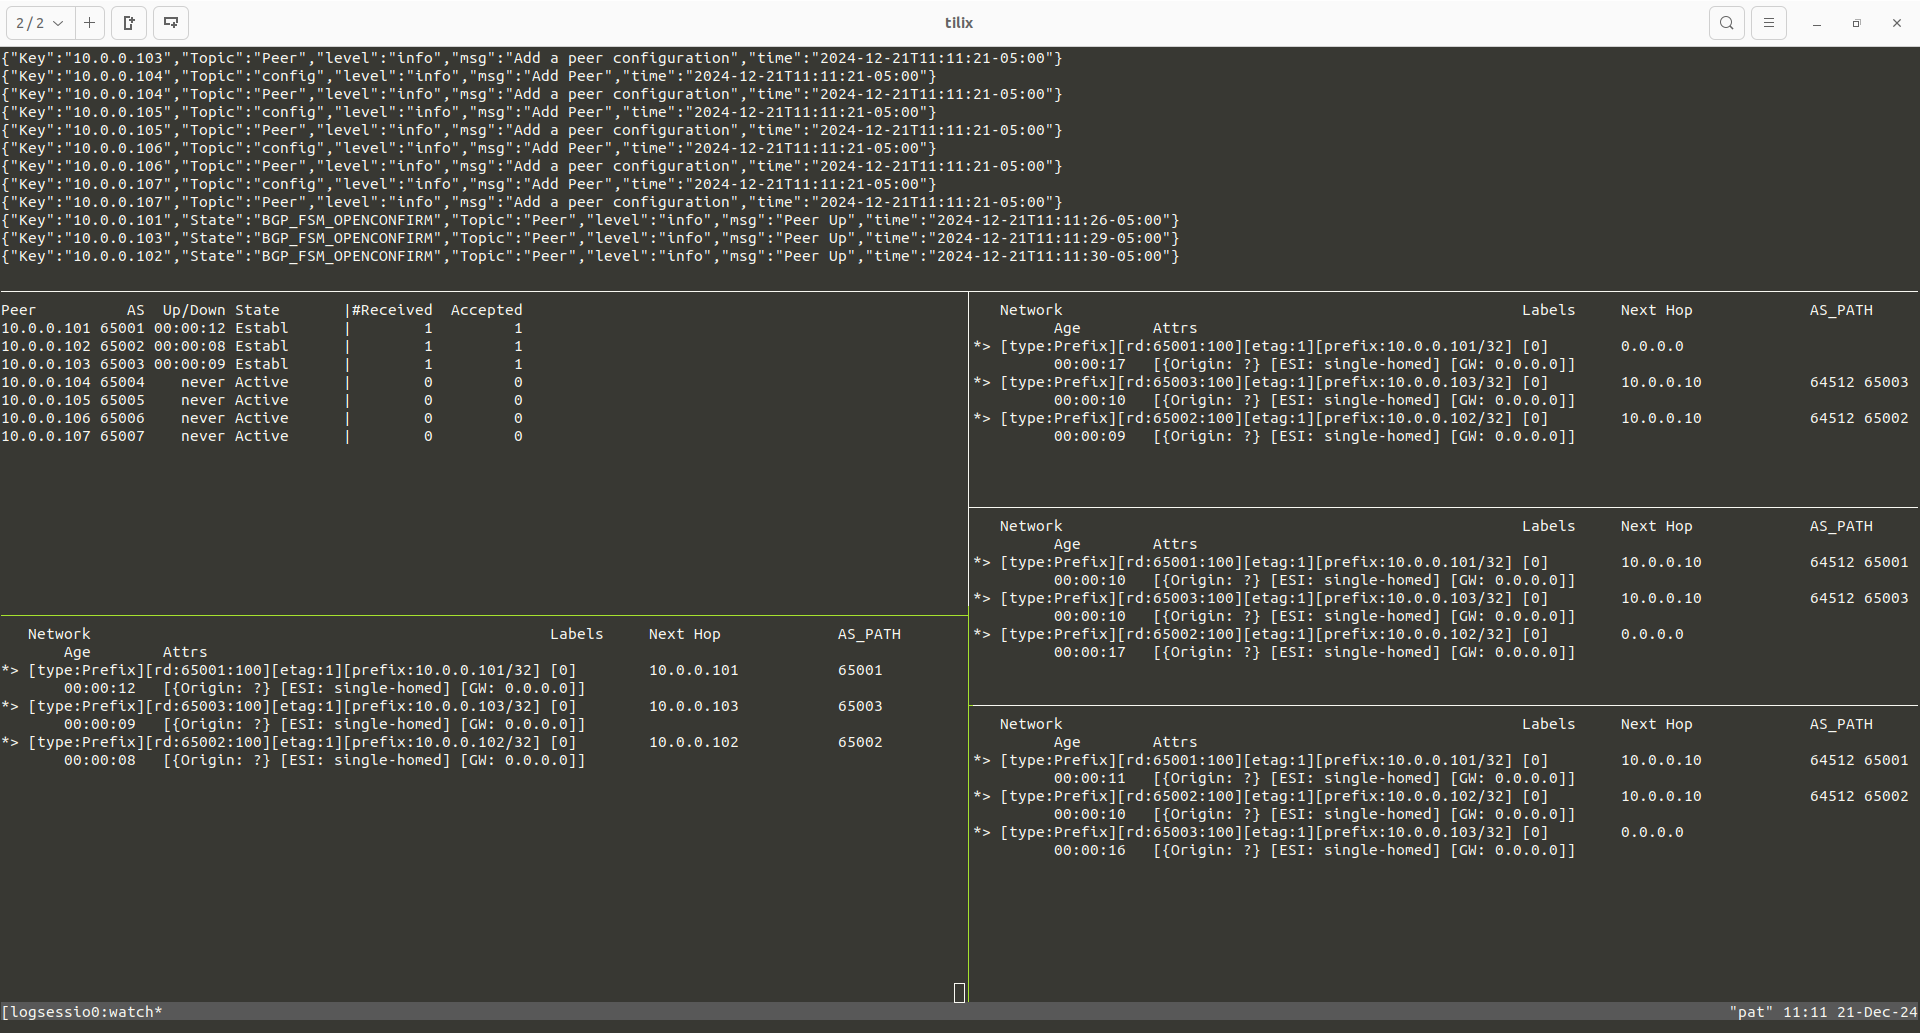
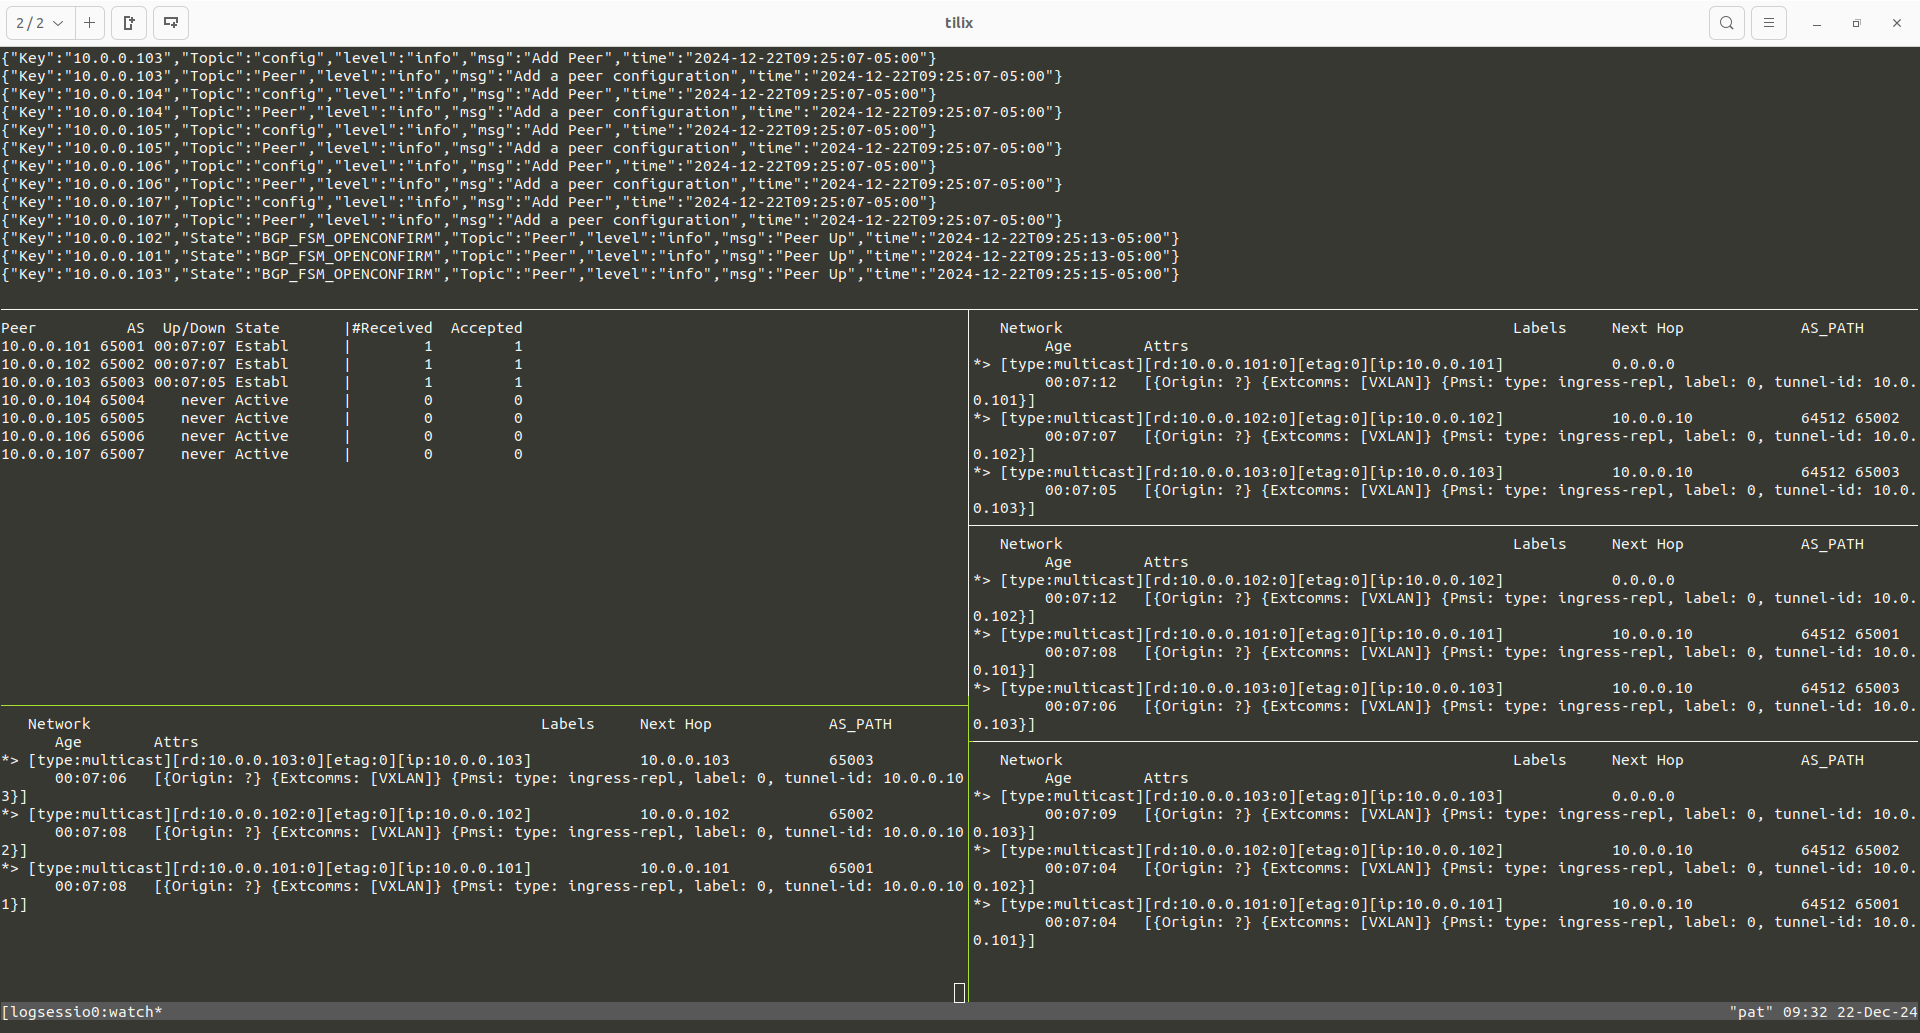
I was using the wrong evpn type

diff --git a/host-agent/GobgpClient.cpp b/host-agent/GobgpClient.cpp
@@ -62,9 +62,10 @@ void GobgpClient::watch_routes()
             const auto &table = response.table();
             for (const auto &path : table.paths())
             {
-                apipb::EVPNIPPrefixRoute routePrefix;
-                if (path.nlri().UnpackTo(&routePrefix))
+                apipb::EVPNInclusiveMulticastEthernetTagRoute route;
+                if (path.nlri().UnpackTo(&route))
                 {
+                    std::cout << "EVPNInclusiveMulticastEthernetTagRoute" << std::endl;
                     for (auto a : path.pattrs())
                     {
                         // if the AS path is not empty, then it means the route is not a local one. So we should be handling this vtep
@@ -75,11 +76,11 @@ void GobgpClient::watch_routes()
                             {
                                 if (path.is_withdraw())
                                 {
-                                    this->mDataPlane->remove_vtep(routePrefix.ip_prefix());
+                                    this->mDataPlane->remove_vtep(route.ip_address());
                                 }
                                 else
                                 {
-                                    this->mDataPlane->add_vtep(routePrefix.ip_prefix());
+                                    this->mDataPlane->add_vtep(route.ip_address());
                                 }
                             }
                         }

diff --git a/README.md b/README.md
@@ -33,9 +33,9 @@ In this diagram, the orange links represent a BGP channel and the green links ar
 
 When we create a new hypervisor, we have a script that creates the bridge and the vxlan interface, spins up the host-agent and gobgp. The script will then invoke the gobgp client tool to advertise the new vtep that was created. For example, if we add a fourth server:
 ```
-gobgp global rib -a evpn add prefix 10.0.0.104/32 etag 1 rd 65004:100
+gobgp global rib -a evpn add multicast 10.0.0.104 etag 0 rd 10.0.0.104:0 encap vxlan pmsi ingress-repl 0 10.0.0.104
 ```
-This prefix will get added in the local RIB and advertised to the controller and then back down to all other hypervisors.
+This vtep address will get added in the local RIB and advertised to the controller and then back down to all other hypervisors.
 
 ## Lab environment
 To make this test easier to run, I am creating a virtual environment using network namespaces in linux instead of using hypervisors and VMs. That simulation is a good proof of concept to show how it can work with virtual machines, but also shows that it can be used for container environments.
@@ -79,7 +79,7 @@ The next step is to install gobgp locally. This is done with `make install-gobgp
 And then we can deploy the lab with `make rebuild-lab`. After starting the lab, we should see all the namespaces and veth pairs created. After the lab is up, we can run `make tail-logs`. This will bring up a tmux session with a few windows to view logs.
 
 ![](logs1.png "Simulation")
-We can see here that the controller instance of gobgp has 3 peers in "established" state. and we can see it received 3 prefixes. The 3 windows on the right show that everyone received prefixes from everyone. So everything is in sync.
+We can see here that the controller instance of gobgp has 3 peers in "established" state. and we can see it received 3 routes. The 3 windows on the right show that everyone received routes from everyone. So everything is in sync.
 
 We can run `make test` to check that everyone can ping each other from within their own bridge (without going thru vxlan)
 ```
@@ -110,7 +110,7 @@ Ping 10.100.3.101 from 10.100.3.103  Pass
 Ping 10.100.3.102 from 10.100.3.103  Pass
 ```
 
-This is good. But what about being able to ping across the overlay? We can check that the host-agent has received the prefix advertisements and has installed the proper FDB entries:
+This is good. But what about being able to ping across the overlay? We can check that the host-agent has received the mac advertisements and has installed the proper FDB entries:
 ```
 pat@pat:~$ sudo ip netns exec evpn-1 bridge fdb show | grep "00:00:00:00:00:00"
 00:00:00:00:00:00 dev vxlan1 dst 10.0.0.102 self permanent
@@ -130,10 +130,11 @@ And now here's a fun experiment: What happens if I kill the gobgp instance in na
 ```
 # RIB looks good
 pat@pat:~$ ip netns exec evpn-1 ./gobgp global rib -a evpn
-   Network                                                   Labels     Next Hop             AS_PATH              Age        Attrs
-*> [type:Prefix][rd:65001:100][etag:1][prefix:10.0.0.101/32] [0]        0.0.0.0                                   00:01:59   [{Origin: ?} [ESI: single-homed] [GW: 0.0.0.0]]
-*> [type:Prefix][rd:65003:100][etag:1][prefix:10.0.0.103/32] [0]        10.0.0.10            64512 65003          00:01:52   [{Origin: ?} [ESI: single-homed] [GW: 0.0.0.0]]
-*> [type:Prefix][rd:65002:100][etag:1][prefix:10.0.0.102/32] [0]        10.0.0.10            64512 65002          00:01:51   [{Origin: ?} [ESI: single-homed] [GW: 0.0.0.0]]
+   Network                                                  Labels     Next Hop             AS_PATH              Age        Attrs
+*> [type:multicast][rd:10.0.0.101:0][etag:0][ip:10.0.0.101]            0.0.0.0                                   00:05:55   [{Origin: ?} {Extcomms: [VXLAN]} {Pmsi: type: ingress-repl, label: 0, tunnel-id: 10.0.0.101}]
+*> [type:multicast][rd:10.0.0.102:0][etag:0][ip:10.0.0.102]            10.0.0.10            64512 65002          00:05:50   [{Origin: ?} {Extcomms: [VXLAN]} {Pmsi: type: ingress-repl, label: 0, tunnel-id: 10.0.0.102}]
+*> [type:multicast][rd:10.0.0.103:0][etag:0][ip:10.0.0.103]            10.0.0.10            64512 65003          00:05:48   [{Origin: ?} {Extcomms: [VXLAN]} {Pmsi: type: ingress-repl, label: 0, tunnel-id: 10.0.0.103}]
+
 
 # FDB Looks good
 pat@pat:~$ ip netns exec evpn-1 bridge fdb show | grep "00:00:00:00:00:00"
@@ -145,21 +146,16 @@ pat@pat:~$ kill -9 1542904
 
 # The RIB is now missing the route for 10.0.0.103
 pat@pat:~$ ip netns exec evpn-1 ./gobgp global rib -a evpn
-   Network                                                   Labels     Next Hop             AS_PATH              Age        Attrs
-*> [type:Prefix][rd:65002:100][etag:1][prefix:10.0.0.102/32] [0]        10.0.0.10            64512 65002          00:03:46   [{Origin: ?} [ESI: single-homed] [GW: 0.0.0.0]]
-*> [type:Prefix][rd:65001:100][etag:1][prefix:10.0.0.101/32] [0]        0.0.0.0                                   00:03:54   [{Origin: ?} [ESI: single-homed] [GW: 0.0.0.0]]
+   Network                                                  Labels     Next Hop             AS_PATH              Age        Attrs
+*> [type:multicast][rd:10.0.0.102:0][etag:0][ip:10.0.0.102]            10.0.0.10            64512 65002          00:10:27   [{Origin: ?} {Extcomms: [VXLAN]} {Pmsi: type: ingress-repl, label: 0, tunnel-id: 10.0.0.102}]
+*> [type:multicast][rd:10.0.0.101:0][etag:0][ip:10.0.0.101]            0.0.0.0                                   00:10:32   [{Origin: ?} {Extcomms: [VXLAN]} {Pmsi: type: ingress-repl, label: 0, tunnel-id: 10.0.0.101}]
+pat@pat:~/projects/evpn$ 
 
 # The FDB is now missing the entry for 10.0.0.103
 pat@pat:~/projects/evpn$ sudo ip netns exec evpn-1 bridge fdb show | grep "00:00:00:00:00:00"
 00:00:00:00:00:00 dev vxlan1 dst 10.0.0.102 self permanent
 
 ```
-
-
-# Future improvements
-We can also take advantage of EVPN Type2 routes to create all ARP entries as new VMs are spun up. This will remove the need from broadcasting ARP queries across all hosts.
-
-I also want to add support for multiple overlays to split traffic into different domains. 
 
 
 
